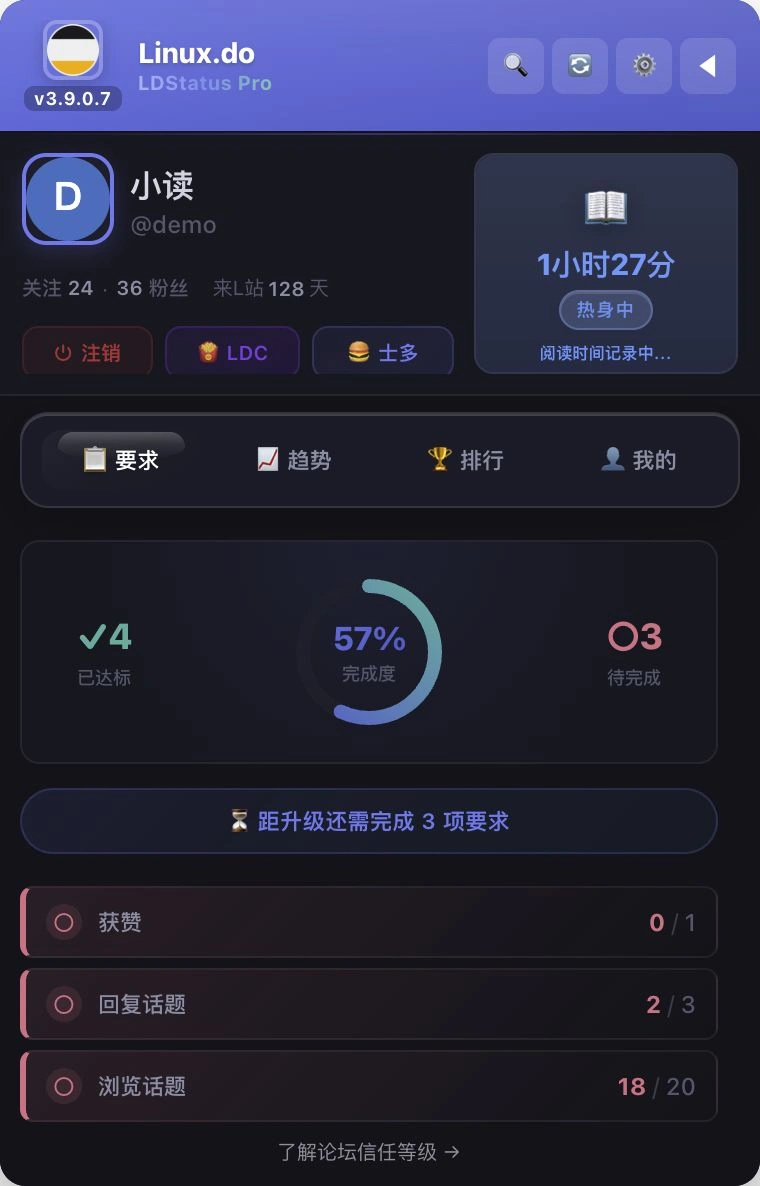
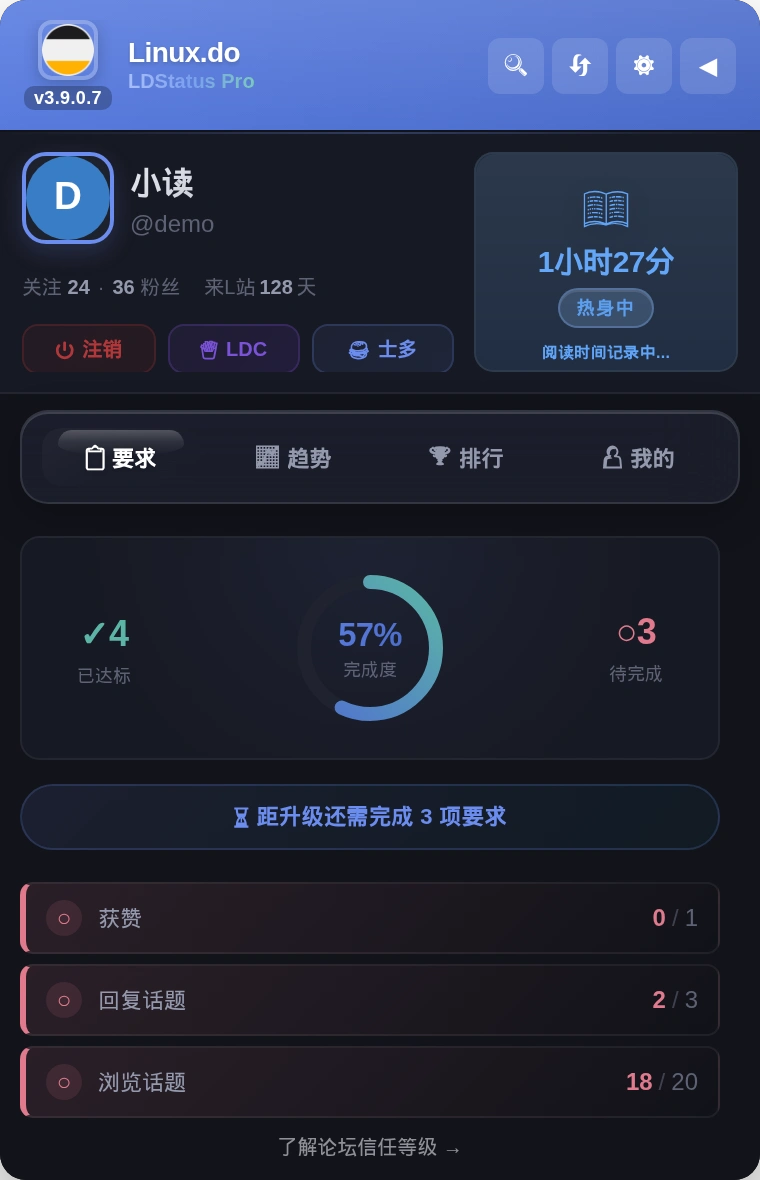
fix(website): recapture plugin previews with reproducible provenance

diff --git a/website/src/components/PluginPreview.tsx b/website/src/components/PluginPreview.tsx
@@ -34,7 +34,7 @@ export function PluginPanel({
           key={`${panel.theme}-${panel.view}`}
           className={`plugin-panel${panel.theme === theme && panel.view === view ? ' selected' : ''}`}
           width="760"
-          height={panel.view === 'reqs' ? 1186 : 1211}
+          height={panel.view === 'reqs' ? 1180 : 1210}
           src={`/product-preview/plugin-${panel.theme}-${panel.view}.webp`}
           alt={`LDStatusPro v${pluginVersion} 原生${panel.theme === 'light' ? '浅色' : '深色'}${panel.view === 'reqs' ? '升级要求' : '阅读趋势'}面板，模拟登录状态与演示数据`}
           aria-hidden={panel.theme !== theme || panel.view !== view}

diff --git a/docs/i18n/AUDITORIA-E-ESCOPO-PT-BR.md b/docs/i18n/AUDITORIA-E-ESCOPO-PT-BR.md
@@ -277,3 +277,12 @@ Evidências RED (falhas antes das correções) e GREEN desta rodada: `/tmp/openc
 - `website/npm run check:deploy` executado via `npm run check:deploy` no diretório `website`: lint sem erros, com o aviso preexistente de dependência `fetchReport` em `AnnualReport2025.tsx:1128`. O build falhou na geração de preview com **“Plugin screenshots are stale”**; TypeScript/Vite não chegaram a executar.
 - Os WebP continuam com a captura histórica de 2026-10-20. É necessário preparar os previews, recapturar as quatro vistas e registrar proveniência fiel antes de repetir o build. Não atualizar somente os hashes para contornar a falha.
 - Os checks da loja, também afetados pelos filtros amplos de scripts/workflows, ainda não foram executados localmente. A contribuição i18n deve permanecer em rascunho enquanto os requisitos E5/E6 e os checks afetados estiverem pendentes.
+
+## 14. Recaptura e checks afetados (2026-11-05)
+
+- **Capturas:** quatro WebP recapturados a partir do código atual em Chromium 156.0.8078.4/Linux, iframe 1440 × 900 a CSS 2×; requisitos 760 × 1180 e tendências 760 × 1210. `capture.json` registra data, browser e hashes de cada HTML/imagem. `website/scripts/capture-plugin-preview.mjs` torna a recaptura reproduzível com requisições externas bloqueadas. Fonte chinesa disponível: Droid Sans Fallback.
+- **Verificação de captura:** quatro documentos com largura 380 CSS px, aba ativa correta, imagens carregadas e nenhum script; todos os hashes HTML/WebP conferidos após o build. Os 44 arquivos de design passaram na sincronização e no `--check`. O modelo desta sessão não suporta inspeção das imagens: revisão visual humana continua pendente; checks DOM não equivalem a aceite visual.
+- **Website GREEN:** `npm run check:deploy` passou (lint, preview, TypeScript e Vite), mantendo apenas o aviso preexistente de `fetchReport`. Uma execução paralela atingiu o timeout de 1 segundo do sandbox; a execução isolada passou sem alterar limites.
+- **Loja:** lint, typecheck, arquitetura, estilos, CSP e noindex passaram; `npm test -- --maxWorkers=2` passou **679/679 testes em 101 arquivos**; build e `check:artifact` passaram, incluindo orçamento de bundles. A rodada paralela inicial teve 678/679 e um timeout, ausente na repetição isolada. O job remoto `Storefront browser` passou na execução `42014842386`.
+- **Bloqueio remanescente:** `check:source` falha em `audit`, com 18 ocorrências (16 moderadas, uma alta e uma crítica), incluindo DOMPurify e Undici. `ld-store/package.json` e lockfile não diferem de `upstream/main`; o bloqueio foi reproduzido localmente e no CI. Correção de dependências e validação correspondente continuam necessárias para o CI gate.
+- **Entrega:** PR #98 permanece rascunho; E1/E5, revisão visual, overhead/startup e plano de versão permanecem pendentes. PR #99 passou no CI gate como alteração documental.

diff --git a/website/README.md b/website/README.md
@@ -62,7 +62,17 @@ npm run build
 npm run preview -- --host 127.0.0.1
 ```
 
-构建先生成插件预览，再运行 `tsc -b` 和 Vite，生成 `dist/`。`public/_headers` 和 `_redirects` 随构建复制。`npm run preview:plugin` 生成原生展示 HTML 并校验图片来源。要准备新截图，先运行 `npm run preview:plugin -- --prepare`，用浏览器在 1440 × 900 的内层桌面 iframe 中渲染四个 HTML，按 CSS 2 倍缩放采集并裁切到面板边界，保存 WebP 后更新 `public/product-preview/capture.json`。HTML 内禁止脚本与网络请求，仅供采集；首页不引用它们。当前升级要求图片为 760 × 1186，趋势图片为 760 × 1211。
+构建先生成插件预览，再运行 `tsc -b` 和 Vite，生成 `dist/`。`public/_headers` 和 `_redirects` 随构建复制。`npm run preview:plugin` 生成原生展示 HTML 并校验图片来源。HTML 内禁止脚本与网络请求，仅供采集；首页不引用它们。
+
+重新采集：在仓库根目录安装锁定依赖 `npm ci` 和浏览器 `npx --no-install playwright install chromium`，确认系统具有中文字体；然后在 `website/` 执行：
+
+```bash
+npm run preview:plugin -- --prepare
+npm run capture:plugin
+npm run check:deploy
+```
+
+采集脚本复用根目录的 Playwright，在 1440 × 900 的桌面 iframe 中以 CSS 2 倍缩放渲染四个 HTML，按 DOM 面板边界裁切，以浏览器原生 WebP 编码器质量 0.96 保存。外部请求被阻止；`capture.json` 记录浏览器、日期、源码/演示数据及各 HTML/图片哈希。2026-11-05 的 Chromium/Linux 采集使用系统中文字体 Droid Sans Fallback，升级要求图片为 760 × 1180，趋势图片为 760 × 1210。检查图片后同步 `PluginPreview.tsx` 的固有尺寸，并在仓库根目录执行 `node design/scripts/sync-assets.mjs` 与 `--check`。自动采集不代替人工视觉验收。
 
 统计 SDK 仅在 `ldspro.qzz.io` 加载，localhost 和 Pages 预览域名不会发送统计数据。不要在本地验收过程中连接生产账号或执行订单、支付等业务操作。
 

diff --git a/docs/i18n/UPSTREAM-PROPOSAL.md b/docs/i18n/UPSTREAM-PROPOSAL.md
@@ -99,4 +99,4 @@ Keep each PR focused, avoid unrelated reformatting or architecture changes, and 
 4. Is explicit reload-based application acceptable for the initial version?
 5. Who should review English terminology and coordinate backend-owned messages where needed?
 
-The next deliverable is E5/E6 acceptance: real userscript-manager/browser smoke checks, layout/accessibility, viewer and print/PDF checks, faithful screenshot provenance, all affected CI checks, and a coordinated version/delivery plan. Existing WebP captures are unchanged and still dated 2026-10-20 although their source manifests were updated. On 2026-11-05, website `npm run check:deploy` passed lint with one existing warning, then failed preview generation with “Plugin screenshots are stale”; TypeScript/Vite did not run. Storefront checks have not been run locally. This contribution should remain a draft until those gaps are addressed. The independent layout PR #97 was merged on 2026-11-05.
+The next deliverable is E5/E6 acceptance: real userscript-manager/browser smoke checks, layout/accessibility, viewer and print/PDF checks, all affected CI checks, and a coordinated version/delivery plan. On 2026-11-05, all four WebP previews were recaptured in Chromium with per-image/HTML hashes and current provenance; website `npm run check:deploy` passed with one existing lint warning. Visual inspection remains pending. Storefront tests passed 679/679, build/artifact checks passed, and the remote browser job passed. Storefront source checks stop at the dependency audit (18 findings in dependencies unchanged from upstream), which still blocks the CI gate. See audit section 14 for commands and limitations. PR #98 should remain a draft until those gaps are addressed. The independent layout PR #97 was merged on 2026-11-05.

diff --git a/design/MOTION_AND_MEDIA.md b/design/MOTION_AND_MEDIA.md
@@ -39,7 +39,7 @@
 
 官网可以使用明确标注的模拟登录数据，展示真实使用时的阅读、信任进度和趋势。演示数据不能标成平台实测统计。保留插件原生模板、样式和 Renderer；不要为了装饰添加实际产品不存在的功能。
 
-现行展示采用插件支持的 380px 宽度和 660px 高度上限设置，只显示未完成升级要求，并移除完成度下面的等级徽标以压缩纵向比例。图片为 2 倍采集：升级要求 760 × 1186，趋势 760 × 1211，浅深主题各一份，WebP 质量 96。裁切仅到面板边界，不能拉伸内容。
+现行展示采用插件支持的 380px 宽度和 660px 高度上限设置，只显示未完成升级要求，并移除完成度下面的等级徽标以压缩纵向比例。2026-11-05 的图片为 Chromium/Linux 2 倍采集：升级要求 760 × 1180，趋势 760 × 1210，浅深主题各一份，浏览器原生 WebP 质量 0.96。尺寸来自当前 DOM 边界；裁切仅到面板边界，不能拉伸内容。自动采集的元数据与构建验证不代替人工视觉验收。
 
 网站只加载这些 WebP，不嵌入真实插件 iframe，不启动登录、存储、阅读追踪、API、面板运行时、内部动画或滤镜。截图采集 HTML 仅用于离线制作，不作为营销页运行内容。版本由用户脚本 `@version` 注入；更新脚本后重新采集，不能让旧图显示新版本号。
 

diff --git a/design/CHANGELOG.md b/design/CHANGELOG.md
@@ -1,5 +1,12 @@
 # 设计决策记录
 
+## 插件截图来源更新 · 2026-11-05
+
+- 根据 i18n 分支当前源码重新生成浅深主题的要求/趋势截图，继续使用原生展示方法和既有模拟数据。
+- 新增可重复运行的 Playwright 采集入口：1440 × 900 iframe、CSS 2 倍缩放、DOM 边界裁切、WebP 质量 0.96；禁止外部请求。
+- 记录实际 Chromium 版本、日期、HTML/图片哈希；同步官网图片固有尺寸（760 × 1180 / 760 × 1210）与设计资产镜像。
+- 本轮为离线展示资源维护；人工视觉验收和真实 userscript-manager 验收仍待完成。
+
 ## 官网首屏流体背景 · 2026-10-22
 
 按 Jacky 本次请求复现 Bellybook 的流体背景交互，后续明确只用松绿与靛蓝。此项记录设计决策；实际发布版本和验收结果以对应发布回执为准。
